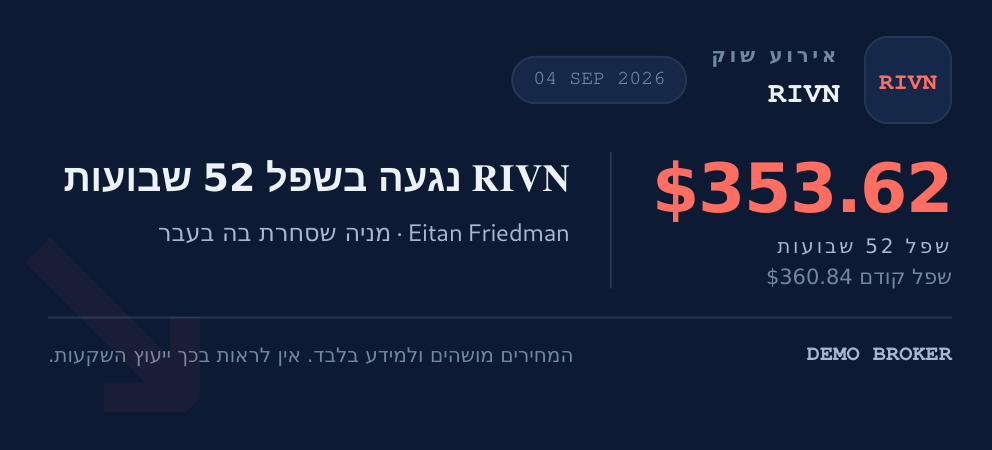
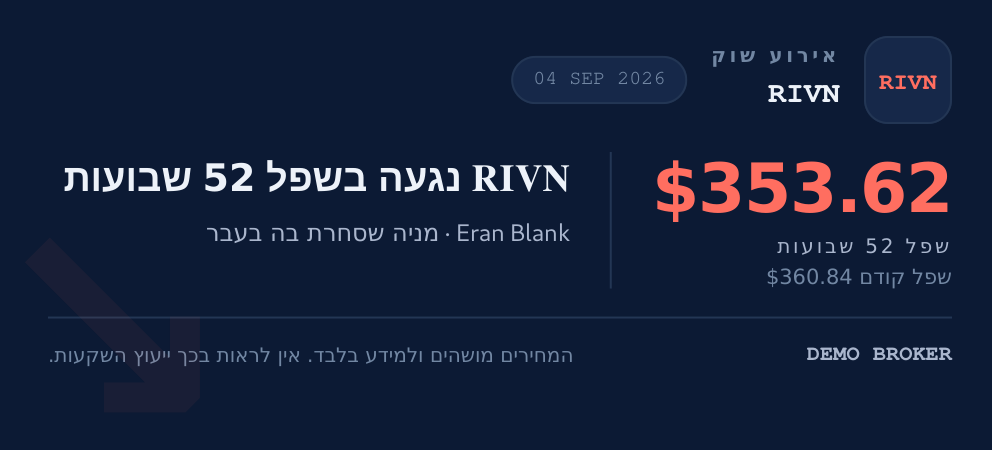
Sample cards: address the demo client as Eran Blank
Claude-Session: https://claude.ai/code/session_015t9PXBtGs7vMeZG9TfjFfi

Changed region(s): [[0.1562, 0.4978, 0.5938, 0.56]]

diff --git a/docs/cards/rivn_low_he_popup.html b/docs/cards/rivn_low_he_popup.html
@@ -121,7 +121,7 @@ body { width: 390px; height: 720px; overflow: hidden; }
     <div class="big"><span class="arrow">↘</span><span class="stat long">$353.62</span></div>
     <div class="stat-label">שפל 52 שבועות</div>
     <div class="stat-sub">שפל קודם $360.84</div>
-    <div class="greet">שלום <b>Eitan Friedman</b>,</div>
+    <div class="greet">שלום <b>Eran Blank</b>,</div>
     <div class="h2">RIVN בשפל 52 שבועות.</div>
     <div class="p">זהו עדכון שוק אוטומטי על מניה שסחרת בה. המידע הוא לידיעה בלבד ואינו ייעוץ השקעות או המלצה לקנות או למכור.</div>
     <div class="rule"></div>

diff --git a/docs/cards/soxl_down_he_popup.html b/docs/cards/soxl_down_he_popup.html
@@ -121,7 +121,7 @@ body { width: 390px; height: 720px; overflow: hidden; }
     <div class="big"><span class="arrow">↘</span><span class="stat">-5.9%</span></div>
     <div class="stat-label">תנועה היום</div>
     <div class="stat-sub">אחרון $199.40</div>
-    <div class="greet">שלום <b>Lior Azulay</b>,</div>
+    <div class="greet">שלום <b>Eran Blank</b>,</div>
     <div class="h2">SOXL ירדה היום <bdi>-5.9</bdi>%.</div>
     <div class="p">זהו עדכון שוק אוטומטי על מניה שסחרת בה. המידע הוא לידיעה בלבד ואינו ייעוץ השקעות או המלצה לקנות או למכור.</div>
     <div class="rule"></div>

diff --git a/docs/cards/nvda_high_en_popup.html b/docs/cards/nvda_high_en_popup.html
@@ -121,7 +121,7 @@ body { width: 390px; height: 720px; overflow: hidden; }
     <div class="big"><span class="arrow">↗</span><span class="stat long">$385.18</span></div>
     <div class="stat-label">52-week high</div>
     <div class="stat-sub">previous high $377.63</div>
-    <div class="greet">Hi <b>Omer Azulay</b>,</div>
+    <div class="greet">Hi <b>Eran Blank</b>,</div>
     <div class="h2">NVDA is at a 52-week high.</div>
     <div class="p">This is an automated market update about a stock you've traded. It is informational only, not investment advice or a recommendation to buy or sell.</div>
     <div class="rule"></div>

diff --git a/docs/cards/smci_up_en_popup.html b/docs/cards/smci_up_en_popup.html
@@ -121,7 +121,7 @@ body { width: 390px; height: 720px; overflow: hidden; }
     <div class="big"><span class="arrow">↗</span><span class="stat">+7.4%</span></div>
     <div class="stat-label">today's move</div>
     <div class="stat-sub">last $156.70</div>
-    <div class="greet">Hi <b>Maya Cohen</b>,</div>
+    <div class="greet">Hi <b>Eran Blank</b>,</div>
     <div class="h2">SMCI is up <bdi>+7.4</bdi>% today.</div>
     <div class="p">This is an automated market update about a stock you've traded. It is informational only, not investment advice or a recommendation to buy or sell.</div>
     <div class="rule"></div>

diff --git a/docs/cards/rivn_low_he_desktop.html b/docs/cards/rivn_low_he_desktop.html
@@ -88,7 +88,7 @@ body[data-layout="mobile"] .rule { margin: 0 0 12px; }
     <div class="divider"></div>
     <div class="col-text">
       <div class="headline">RIVN נגעה בשפל 52 שבועות</div>
-      <div class="who">Eitan Friedman · מניה שסחרת בה בעבר</div>
+      <div class="who">Eran Blank · מניה שסחרת בה בעבר</div>
     </div>
   </div>
   <div class="rule"></div>

diff --git a/docs/cards/rivn_low_he_mobile.html b/docs/cards/rivn_low_he_mobile.html
@@ -88,7 +88,7 @@ body[data-layout="mobile"] .rule { margin: 0 0 12px; }
     <div class="divider"></div>
     <div class="col-text">
       <div class="headline">RIVN נגעה בשפל 52 שבועות</div>
-      <div class="who">Eitan Friedman · מניה שסחרת בה בעבר</div>
+      <div class="who">Eran Blank · מניה שסחרת בה בעבר</div>
     </div>
   </div>
   <div class="rule"></div>

diff --git a/docs/cards/soxl_down_he_desktop.html b/docs/cards/soxl_down_he_desktop.html
@@ -88,7 +88,7 @@ body[data-layout="mobile"] .rule { margin: 0 0 12px; }
     <div class="divider"></div>
     <div class="col-text">
       <div class="headline">SOXL ירדה היום <bdi>-5.9</bdi>%</div>
-      <div class="who">Lior Azulay · מניה שסחרת בה בעבר</div>
+      <div class="who">Eran Blank · מניה שסחרת בה בעבר</div>
     </div>
   </div>
   <div class="rule"></div>

diff --git a/docs/cards/soxl_down_he_mobile.html b/docs/cards/soxl_down_he_mobile.html
@@ -88,7 +88,7 @@ body[data-layout="mobile"] .rule { margin: 0 0 12px; }
     <div class="divider"></div>
     <div class="col-text">
       <div class="headline">SOXL ירדה היום <bdi>-5.9</bdi>%</div>
-      <div class="who">Lior Azulay · מניה שסחרת בה בעבר</div>
+      <div class="who">Eran Blank · מניה שסחרת בה בעבר</div>
     </div>
   </div>
   <div class="rule"></div>

diff --git a/docs/cards/smci_up_en_desktop.html b/docs/cards/smci_up_en_desktop.html
@@ -88,7 +88,7 @@ body[data-layout="mobile"] .rule { margin: 0 0 12px; }
     <div class="divider"></div>
     <div class="col-text">
       <div class="headline">SMCI is up <bdi>+7.4</bdi>% today</div>
-      <div class="who">Maya Cohen · a stock you have traded before</div>
+      <div class="who">Eran Blank · a stock you have traded before</div>
     </div>
   </div>
   <div class="rule"></div>

diff --git a/docs/cards/smci_up_en_mobile.html b/docs/cards/smci_up_en_mobile.html
@@ -88,7 +88,7 @@ body[data-layout="mobile"] .rule { margin: 0 0 12px; }
     <div class="divider"></div>
     <div class="col-text">
       <div class="headline">SMCI is up <bdi>+7.4</bdi>% today</div>
-      <div class="who">Maya Cohen · a stock you have traded before</div>
+      <div class="who">Eran Blank · a stock you have traded before</div>
     </div>
   </div>
   <div class="rule"></div>

diff --git a/docs/cards/nvda_high_en_desktop.html b/docs/cards/nvda_high_en_desktop.html
@@ -88,7 +88,7 @@ body[data-layout="mobile"] .rule { margin: 0 0 12px; }
     <div class="divider"></div>
     <div class="col-text">
       <div class="headline">NVDA set a new 52-week high</div>
-      <div class="who">Omer Azulay · a stock you have traded before</div>
+      <div class="who">Eran Blank · a stock you have traded before</div>
     </div>
   </div>
   <div class="rule"></div>

diff --git a/docs/cards/nvda_high_en_mobile.html b/docs/cards/nvda_high_en_mobile.html
@@ -88,7 +88,7 @@ body[data-layout="mobile"] .rule { margin: 0 0 12px; }
     <div class="divider"></div>
     <div class="col-text">
       <div class="headline">NVDA set a new 52-week high</div>
-      <div class="who">Omer Azulay · a stock you have traded before</div>
+      <div class="who">Eran Blank · a stock you have traded before</div>
     </div>
   </div>
   <div class="rule"></div>
